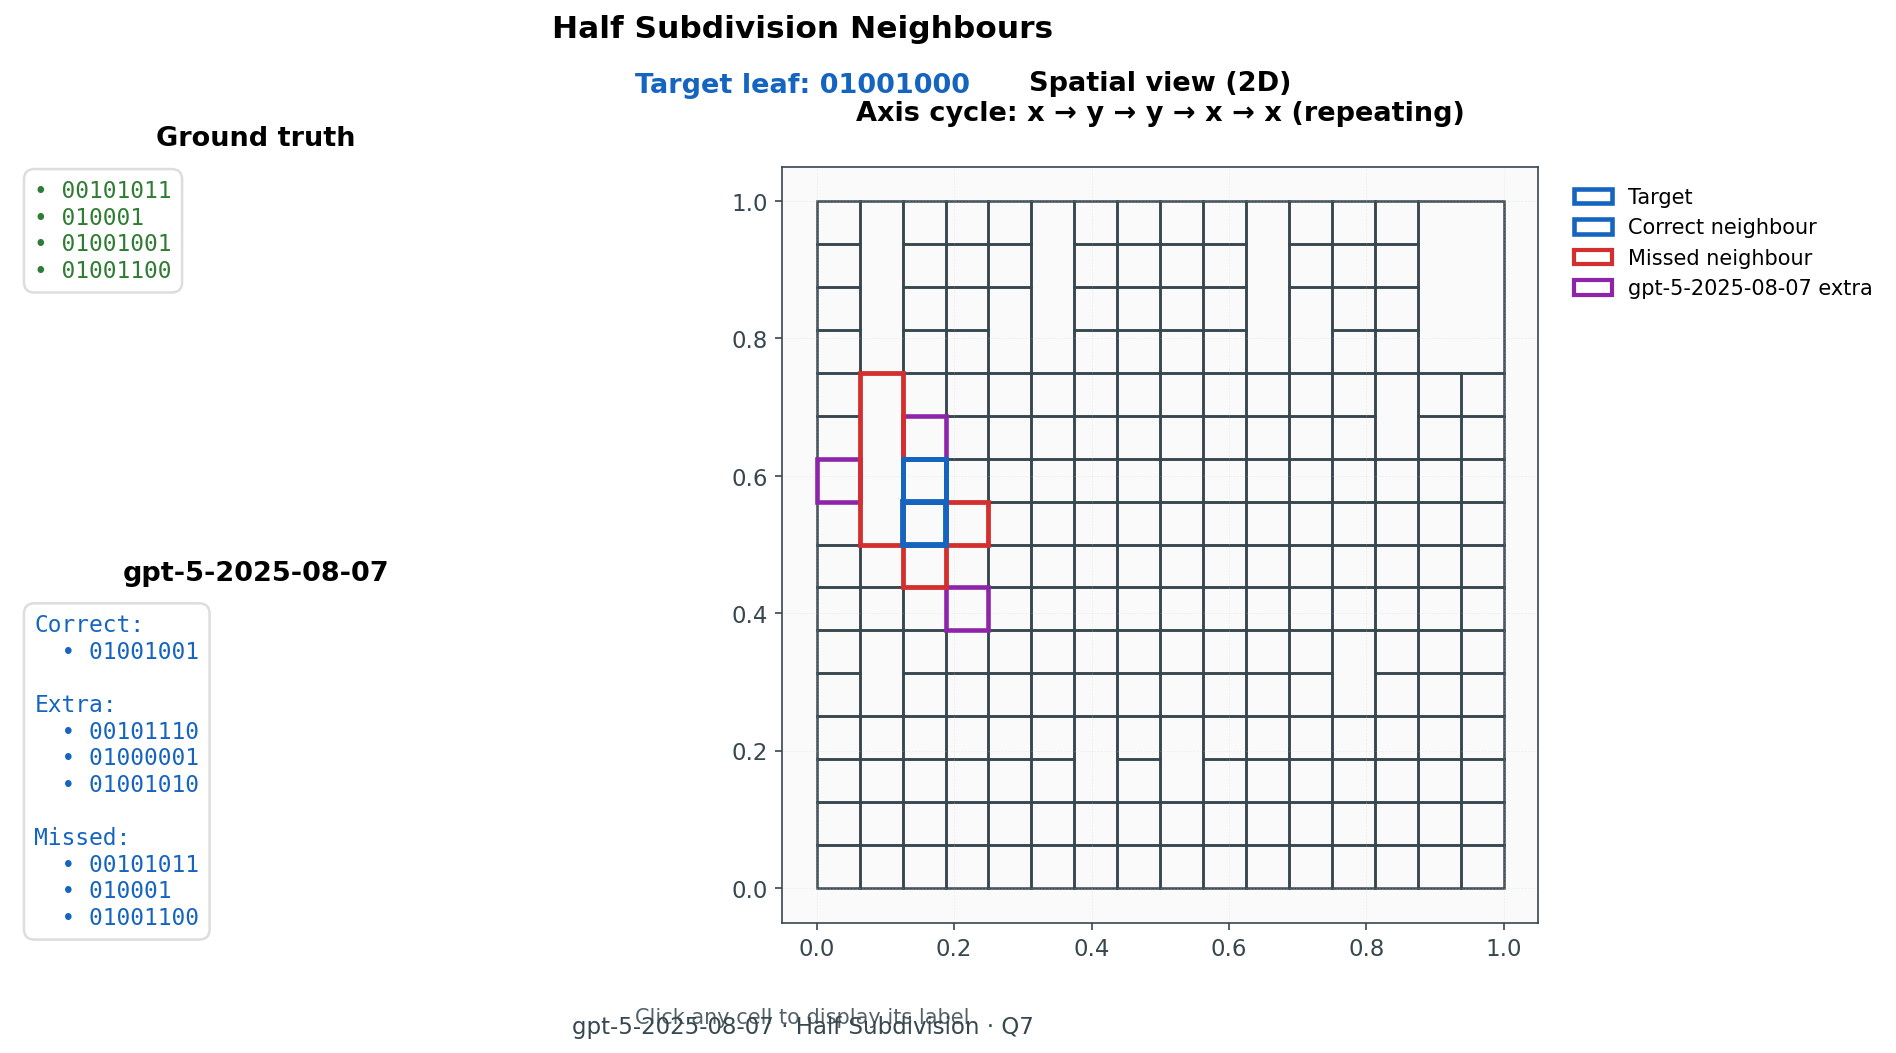
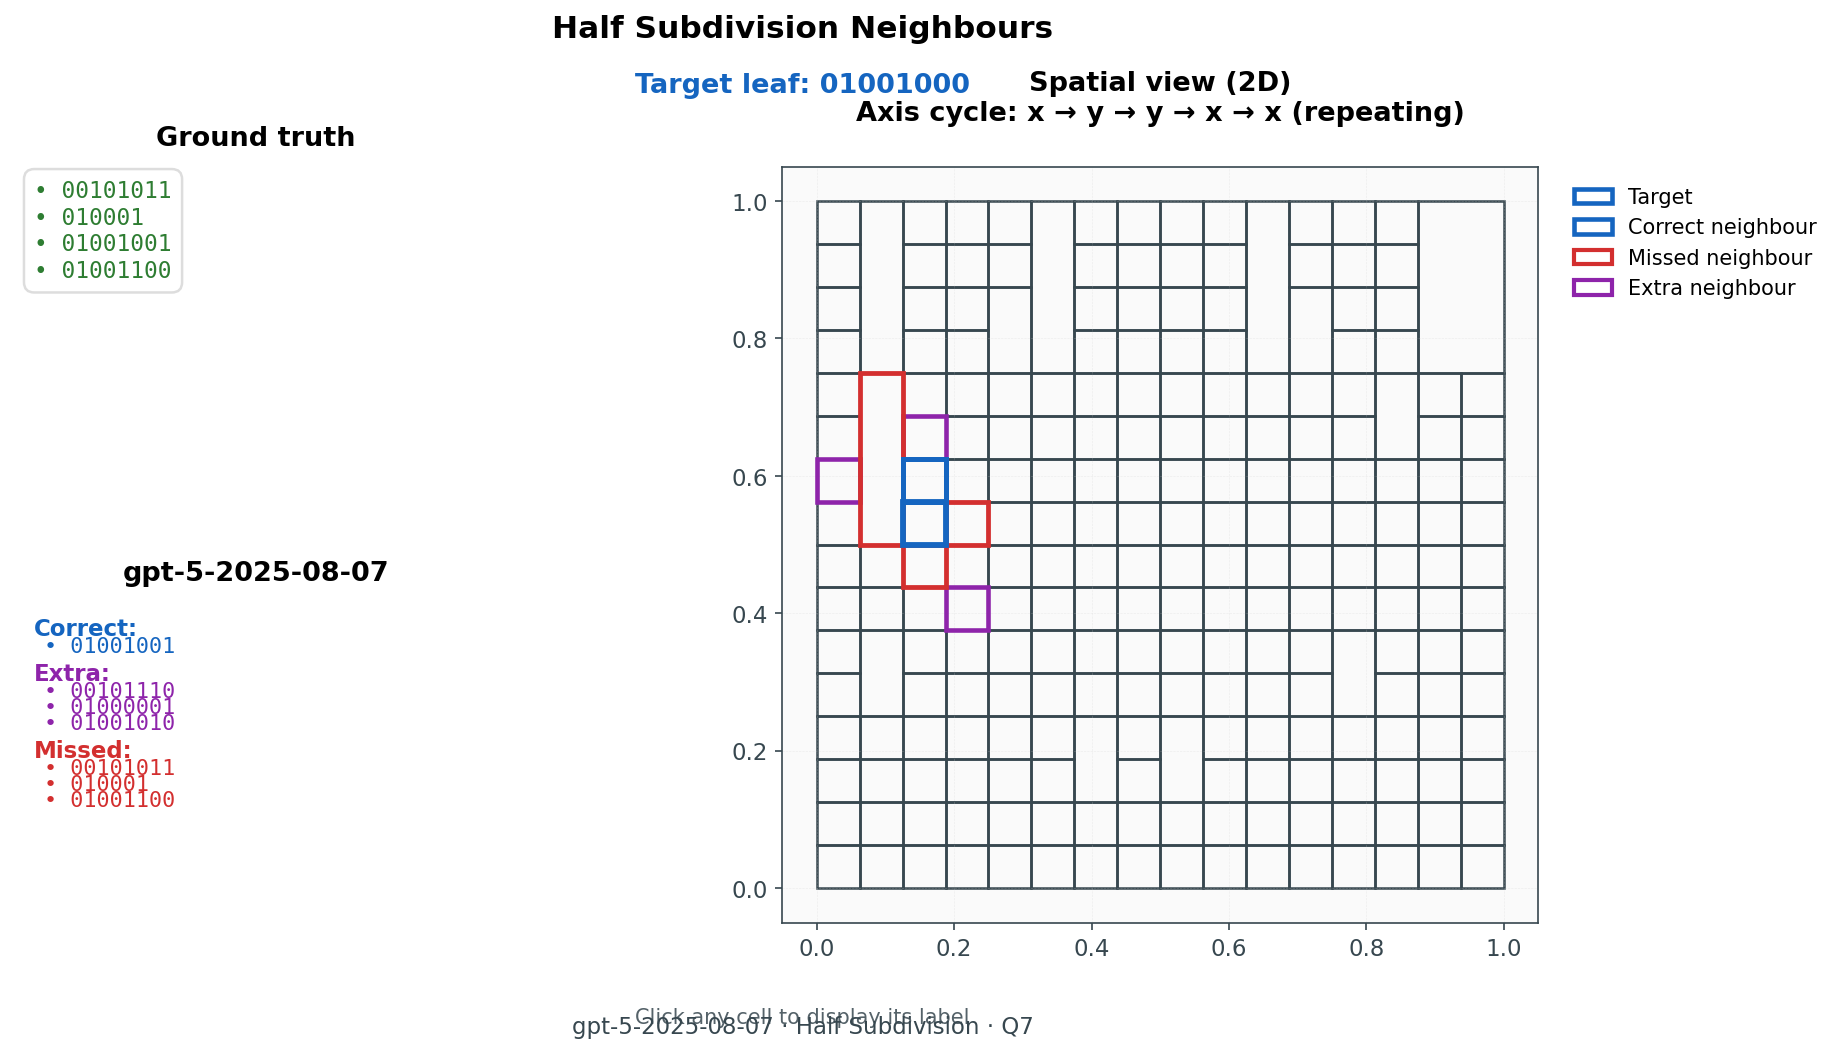
Color-code half-subdivision diff legend and text

diff --git a/visualisations/half_subdivision.py b/visualisations/half_subdivision.py
@@ -310,28 +310,67 @@ def _format_label_lines(labels: list[str]) -> list[str]:
     return lines
 
 
-def _format_answer_diffs(
+def _render_diff_block(
+    ax: plt.Axes,
+    *,
+    title: str,
     correct: list[str],
     extra: list[str],
     missed: list[str],
-) -> list[str]:
-    lines: list[str] = []
+) -> None:
+    ax.set_axis_off()
+    ax.set_title(title, fontsize=13, weight="semibold", pad=10)
 
-    def _add_section(title: str, entries: list[str]) -> None:
+    sections = [
+        ("Correct", correct, COLOURS["answer"]),
+        ("Extra", extra, COLOURS["extra_vertex"]),
+        ("Missed", missed, COLOURS["missed_vertex"]),
+    ]
+
+    y = 0.95
+    for heading, entries, colour in sections:
         if not entries:
-            return
-        lines.append(f"{title}:")
+            continue
+        ax.text(
+            0.04,
+            y,
+            f"{heading}:",
+            ha="left",
+            va="top",
+            fontsize=11,
+            color=colour,
+            weight="semibold",
+            transform=ax.transAxes,
+        )
+        y -= 0.06
         for label in sorted(entries):
             safe = label if label else '""'
-            lines.append(f"  • {safe}")
-        lines.append("")
+            ax.text(
+                0.06,
+                y,
+                f"• {safe}",
+                ha="left",
+                va="top",
+                fontsize=10.5,
+                color=colour,
+                family="monospace",
+                transform=ax.transAxes,
+            )
+            y -= 0.05
+        y -= 0.03
 
-    _add_section("Correct", correct)
-    _add_section("Extra", extra)
-    _add_section("Missed", missed)
-    if lines and lines[-1] == "":
-        lines.pop()
-    return lines
+    if y == 0.95:
+        ax.text(
+            0.04,
+            y,
+            "(none)",
+            ha="left",
+            va="top",
+            fontsize=11,
+            color=COLOURS["answer"],
+            family="monospace",
+            transform=ax.transAxes,
+        )
 
 
 def _add_highlight_legend(
@@ -382,7 +421,7 @@ def _add_highlight_legend(
             )
         )
     if has_extra:
-        extra_label = f"{model_label} extra" if model_label else "Extra neighbour"
+        extra_label = "Extra neighbour"
         handles.append(
             Patch(
                 facecolor="white",
@@ -532,14 +571,12 @@ def _render_half_subdivision(
 
     if show_model_answer:
         ax_ans = fig.add_subplot(gs[1, 0])
-        diff_lines = _format_answer_diffs(correct_labels, extra_labels, missed_labels)
-        answer_lines = diff_lines if diff_lines else _format_label_lines(model_answer_labels)
-        _render_text_block(
+        _render_diff_block(
             ax_ans,
             title=model_label,
-            lines=answer_lines,
-            empty_message="(none)",
-            colour=COLOURS["answer"],
+            correct=correct_labels,
+            extra=extra_labels,
+            missed=missed_labels,
         )
     interactive_artists: list[plt.Artist] = []
 
